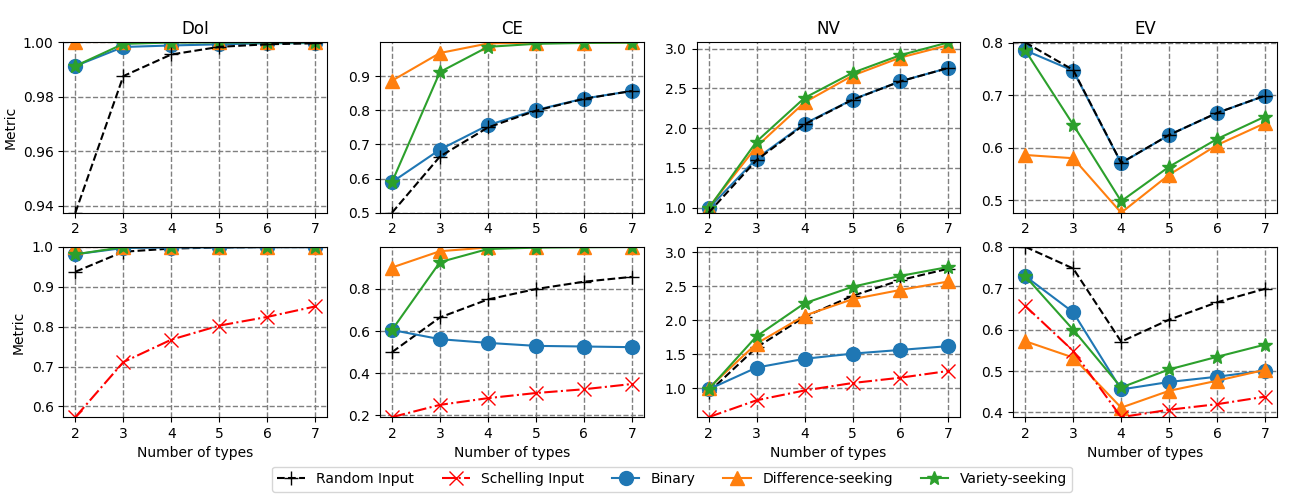
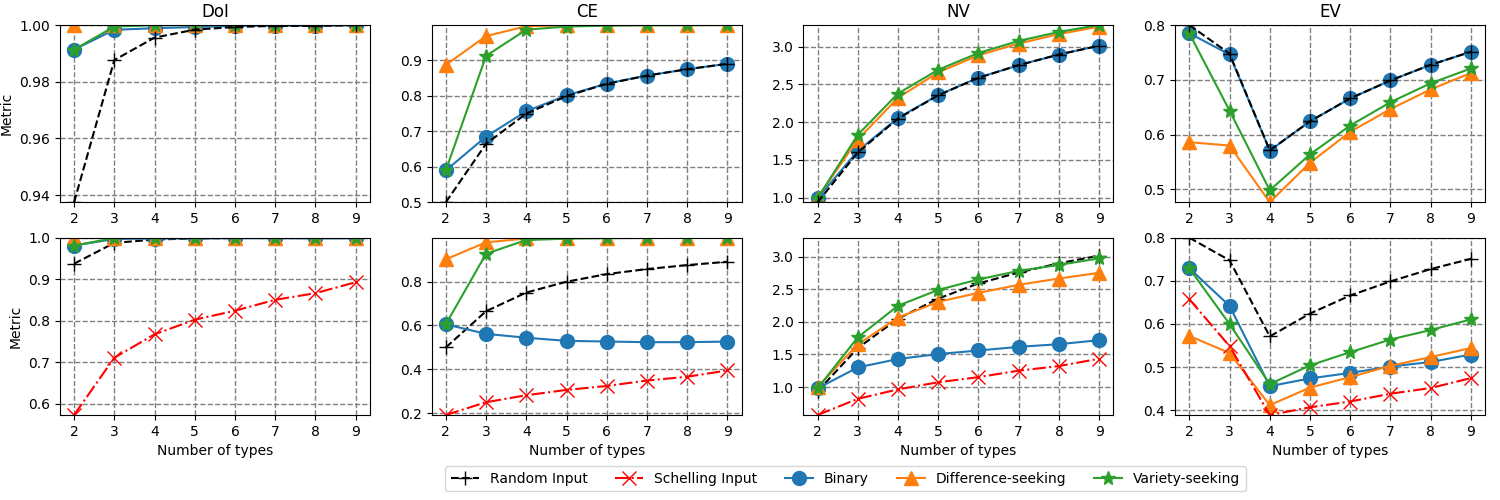
Added new plot

Changed region(s): [[0.0, 0.0, 1.0, 0.99]]

diff --git a/DiversitySimulator/results_900_50run/analysis/plot_large.py b/DiversitySimulator/results_900_50run/analysis/plot_large.py
@@ -13,7 +13,7 @@ legend_label_map = {
 
 ROOT = '..'
 NUM_RUN = 50
-TYPES = [2,3,4,5,6,7]
+TYPES = [2,3,4,5,6,7,8,9]
 WORLDS = [
         # ('900', 'CIRCLE_WORLD'), 
         # ('2x450', 'CYLINDER_WORLD'),
@@ -97,6 +97,7 @@ if True: # plot avg
     for world_size, world in WORLDS: 
         short_world = world.replace('_WORLD', '')
         fig, ax = plt.subplots(len(INITIALIZATIONS),len(focused_metrics))
+        fig.subplots_adjust(bottom=0.17, left=0.04, top=0.95, right=0.99)
         for i, initialization_pair in enumerate(INITIALIZATIONS):
             for utility, utility_marker, line_data in iter_line(world, world_size, initialization_pair):
                 for m_i, metric in enumerate(focused_metrics):
@@ -134,6 +135,6 @@ if True: # plot avg
         plt.legend([handles[idx] for idx in order],[labels[idx] for idx in order], ncol=5, bbox_to_anchor=(0.25, -0.25))
         # ax[-1,-1].legend([handles[idx] for idx in order],[labels[idx] for idx in order], title='Legend', bbox_to_anchor=(1.0, 0.8))
         # plt.suptitle('%s' % (short_world))
-        plt.show()
-        # plt.savefig('avg_plots/degree4_large.png')
-        # plt.close()
+        # plt.show()
+        plt.savefig('avg_plots/degree4_large.png')
+        plt.close()
